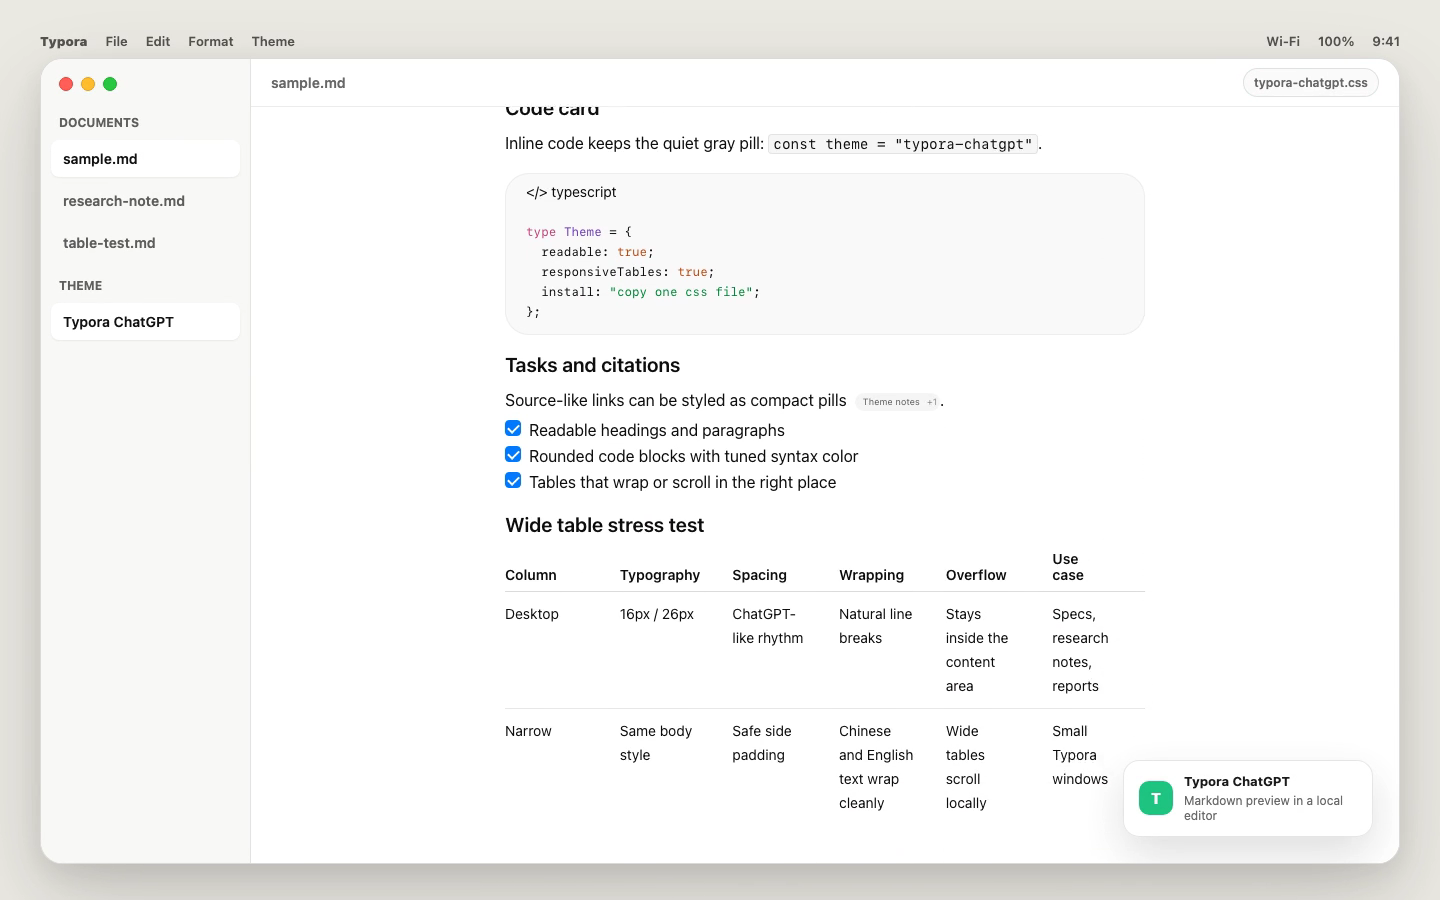
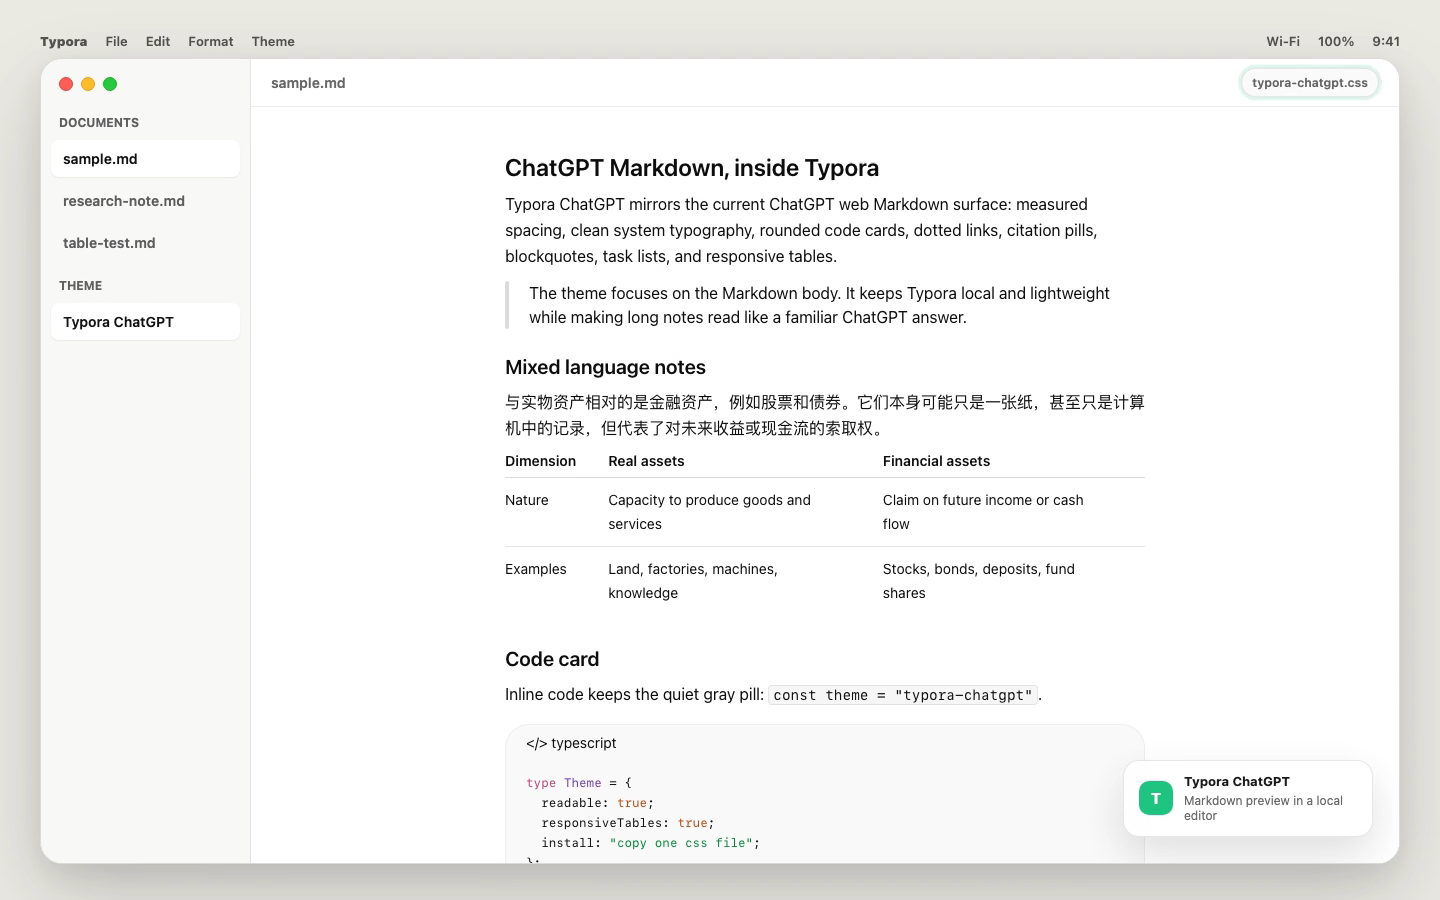
Refine demo table showcase

diff --git a/assets/preview/demo.html b/assets/preview/demo.html
@@ -39,19 +39,28 @@
                 <p>The theme focuses on the Markdown body. It keeps Typora local and lightweight while making long notes read like a familiar ChatGPT answer.</p>
               </blockquote>
 
-              <h2>Research note</h2>
-              <p>与实物资产相对的是金融资产，例如股票和债券。教材强调，这些证券本身可能只是一张纸，甚至只是计算机中的记录，它们并不直接贡献社会生产力。</p>
-              <p>这句话很容易被误解成“金融资产没用”。不是。它们是人们拥有实物资产收益的凭证，是对实物资产收益或政府收益的索取权。</p>
+              <h2>Mixed language notes</h2>
+              <p>与实物资产相对的是金融资产，例如股票和债券。它们本身可能只是一张纸，甚至只是计算机中的记录，但代表了对未来收益或现金流的索取权。</p>
 
               <table>
                 <thead>
-                  <tr><th>维度</th><th>实物资产</th><th>金融资产</th></tr>
+                  <tr>
+                    <th>Dimension</th>
+                    <th>Real assets</th>
+                    <th>Financial assets</th>
+                  </tr>
                 </thead>
                 <tbody>
-                  <tr><td>本质</td><td>生产商品和服务的能力</td><td>对未来收益或现金流的索取权</td></tr>
-                  <tr><td>是否直接创造社会产出</td><td>是</td><td>否</td></tr>
-                  <tr><td>对个人是否是财富</td><td>是</td><td>是</td></tr>
-                  <tr><td>例子</td><td>土地、厂房、机器、知识、技术</td><td>股票、债券、存款、基金份额、租赁凭证</td></tr>
+                  <tr>
+                    <td>Nature</td>
+                    <td>Capacity to produce goods and services</td>
+                    <td>Claim on future income or cash flow</td>
+                  </tr>
+                  <tr>
+                    <td>Examples</td>
+                    <td>Land, factories, machines, knowledge</td>
+                    <td>Stocks, bonds, deposits, fund shares</td>
+                  </tr>
                 </tbody>
               </table>
 
@@ -97,7 +106,7 @@
     const params = new URLSearchParams(window.location.search);
     if (params.has("autoplay")) {
       const scroller = document.getElementById("demo-scroll");
-      const stops = [0, 420, 880, 1340, 1820, 1260, 0];
+      const stops = [0, 0, 360, 775, 520, 0];
       stops.forEach((top, index) => {
         window.setTimeout(() => {
           scroller.scrollTo({ top, behavior: "smooth" });

diff --git a/sample.md b/sample.md
@@ -4,9 +4,16 @@ Typora ChatGPT mirrors the current ChatGPT web Markdown surface: measured spacin
 
 > The theme focuses on the Markdown body. It keeps Typora local and lightweight while making long notes read like a familiar ChatGPT answer.
 
-## Research note
+## Mixed language notes
 
-与实物资产相对的是金融资产，例如股票和债券。教材强调，这些证券本身可能只是一张纸，甚至只是计算机中的记录，它们并不直接贡献社会生产力。
+与实物资产相对的是金融资产，例如股票和债券。它们本身可能只是一张纸，甚至只是计算机中的记录，但代表了对未来收益或现金流的索取权。
+
+| Dimension | Real assets | Financial assets |
+| --- | --- | --- |
+| Nature | Capacity to produce goods and services | Claim on future income or cash flow |
+| Examples | Land, factories, machines, knowledge | Stocks, bonds, deposits, fund shares |
+
+## Responsive table stress test
 
 这句话很容易被误解成“金融资产没用”。不是。它们是人们拥有实物资产收益的凭证，是对实物资产收益或政府收益的索取权。
 

diff --git a/CHANGELOG.md b/CHANGELOG.md
@@ -1,5 +1,11 @@
 # Changelog
 
+## 1.0.2 - 2026-05-30
+
+- Updated the macOS demo video to use the cleaner mixed-language table from the hero preview.
+- Adjusted the demo pacing so the table section stays visible longer before scrolling to code and task examples.
+- Kept the sample Markdown aligned with the README showcase table.
+
 ## 1.0.1 - 2026-05-30
 
 - Refreshed the README gallery with richer Markdown sampler screenshots.